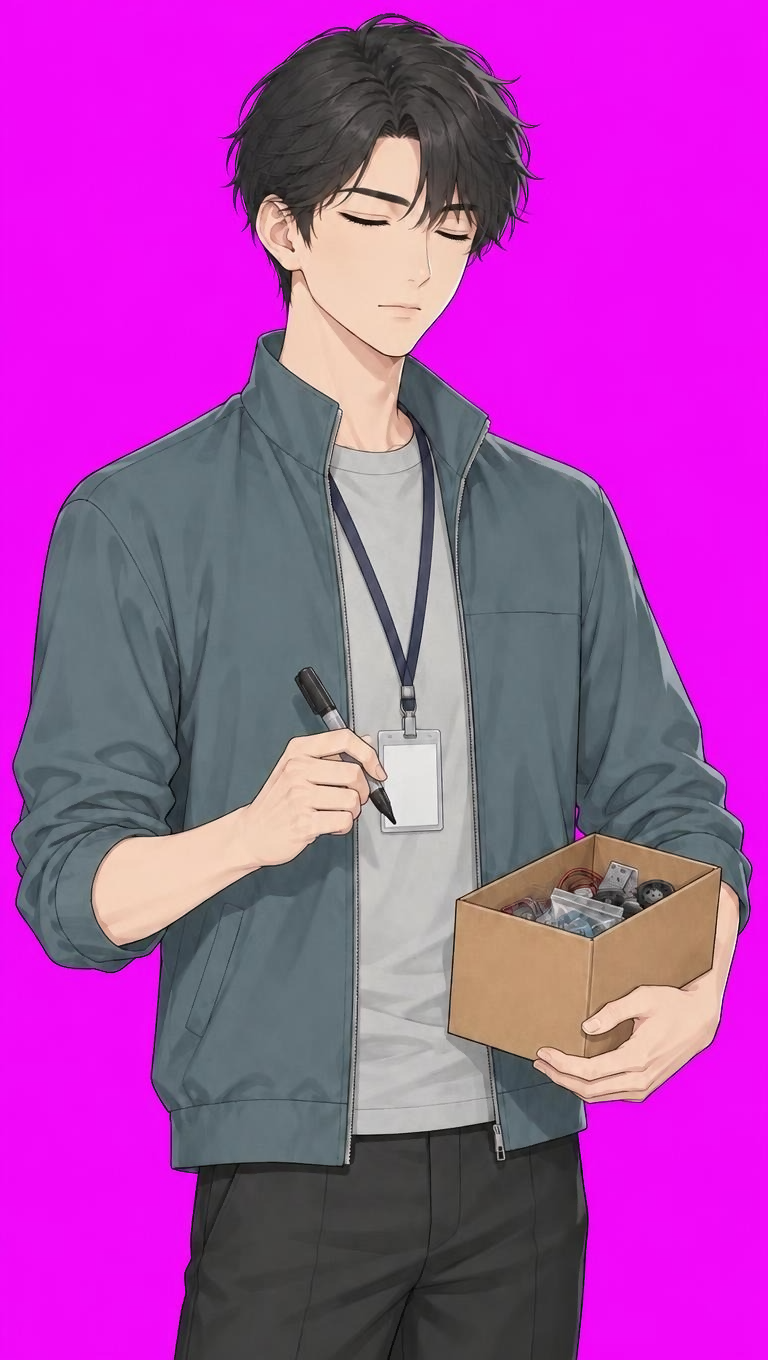
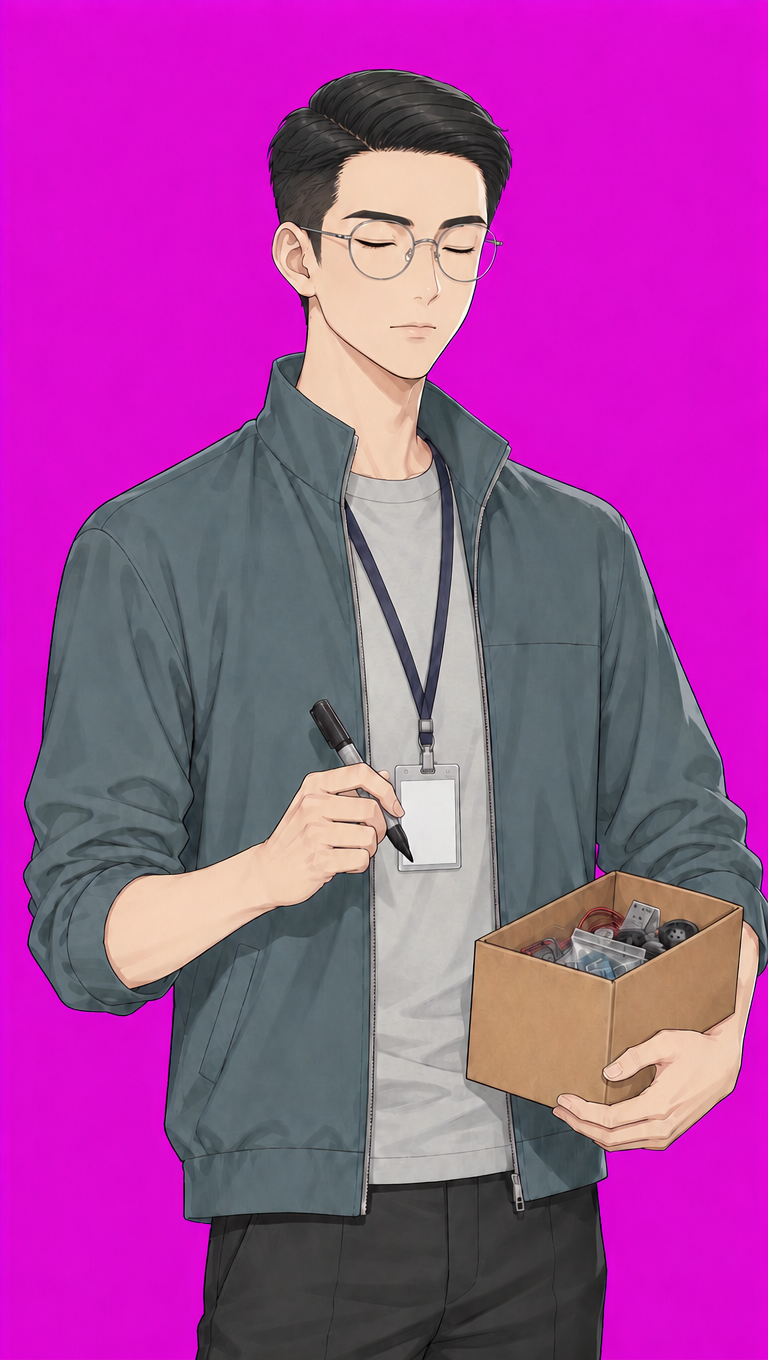
Nam vẽ lại cho khác Hiếu: mặt thon kính gọng tròn mảnh (phương án C) với tóc rẽ ngôi gọn, mai cắt ngắn (kiểu tóc phương án A); giữ áo khoác, dây thẻ, dáng tay. Cỡ đầu đo lại theo mặt mới (x1,068 trong co-dau-2026-10-04.json), bộ nhép môi/chớp mắt làm lại

diff --git a/prototype/src/mvp/ui/nhep-moi-mvp.ts b/prototype/src/mvp/ui/nhep-moi-mvp.ts
@@ -145,7 +145,7 @@ export const BO_NHEP_MOI_MVP: ReadonlyMap<string, TalkRig> = new Map<string, Tal
   bo('char-duy', duyMouth, [344, 360, 80, 37], duyEyes, [305, 262, 175, 56]),
   bo('char-duy-smile', duySmileMouth, [338, 352, 89, 40], duySmileEyes, [302, 261, 175, 55]),
   bo('char-duy-serious', duySeriousMouth, [351, 361, 68, 37], duySeriousEyes, [300, 263, 179, 55]),
-  bo('char-nam', namMouth, [364, 331, 68, 37], namEyes, [323, 225, 171, 59]),
+  bo('char-nam', namMouth, [381, 329, 64, 37], namEyes, [340, 230, 152, 43]),
   bo('char-khanh', khanhMouth, [377, 304, 72, 39], khanhEyes, [342, 207, 155, 47]),
   bo('char-thao', thaoMouth, [362, 478, 60, 44], thaoEyes, [306, 379, 181, 69]),
   bo('char-bach', bachMouth, [376, 306, 71, 45], bachEyes, [337, 208, 157, 44]),
